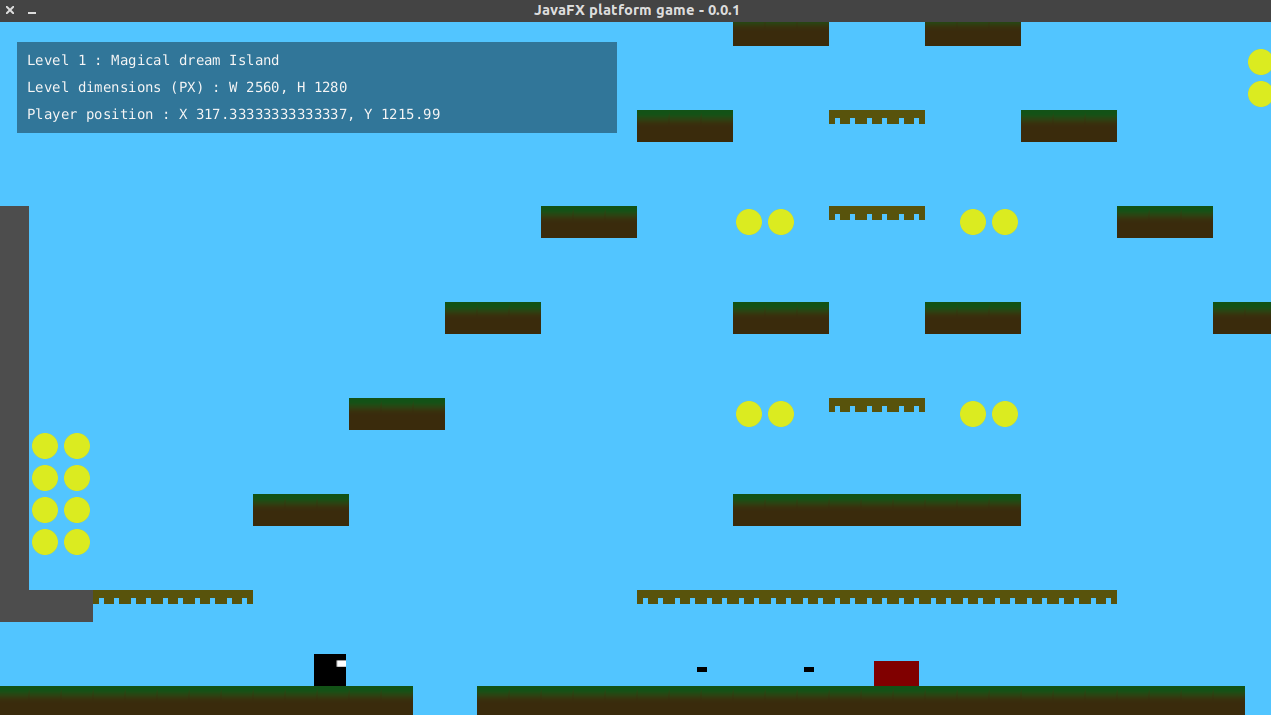
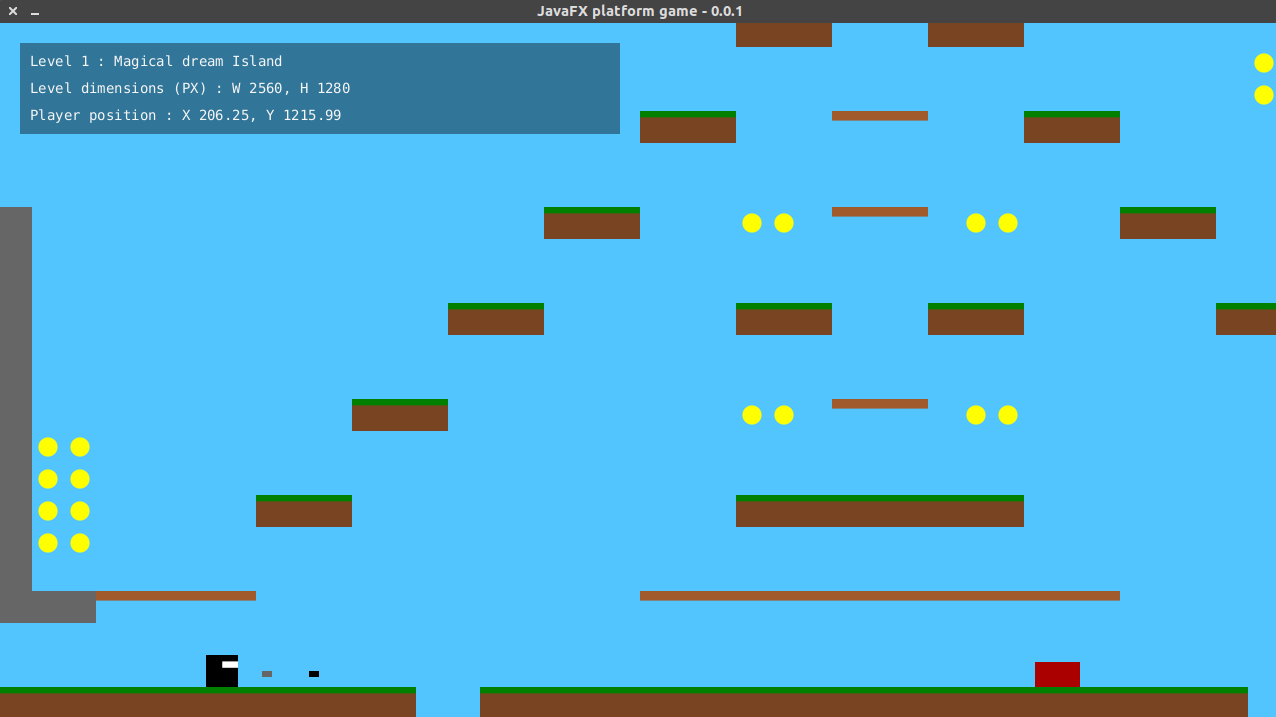
small update to graphics handling

diff --git a/src/main/java/com/zonaut/games/javafx/platform/level/LevelLoader.java b/src/main/java/com/zonaut/games/javafx/platform/level/LevelLoader.java
@@ -24,9 +24,9 @@ public class LevelLoader {
 
     private static final Logger LOG = LogManager.getLogger(LevelLoader.class);
 
-    private static final List<Integer> SOLID_TILE_IDS = List.of(2, 3);
-    private static final List<Integer> PASSABLE_TILE_IDS = List.of(4);
-    private static final List<Integer> COLLECTIBLE_TILE_IDS = List.of(5, 6);
+    private static final List<Integer> SOLID_TILE_IDS = List.of(1, 2);
+    private static final List<Integer> PASSABLE_TILE_IDS = List.of(3);
+    private static final List<Integer> COLLECTIBLE_TILE_IDS = List.of(4, 5);
 
     private Group currentLevel;
 
